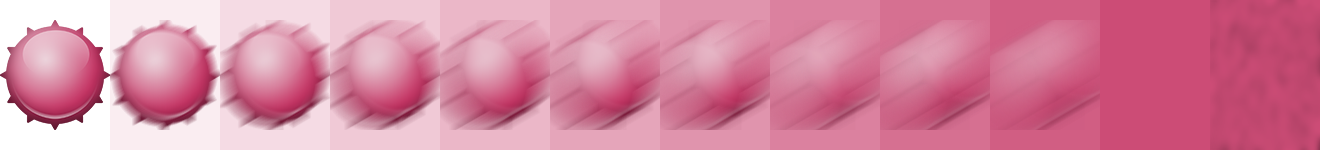
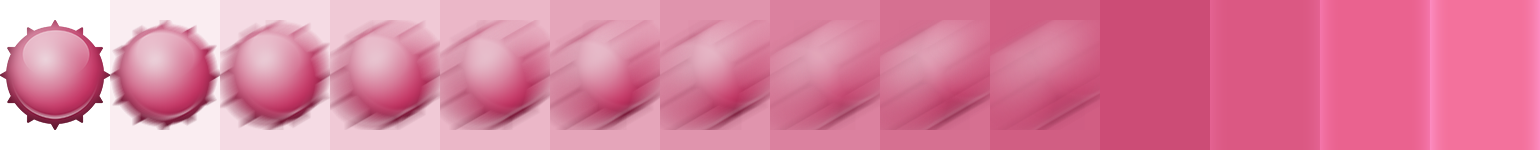
Mask for the injected cells

diff --git a/js/monsters.js b/js/monsters.js
@@ -36,6 +36,10 @@ var levelState = {
         path = game.add.group();
         cells = game.add.group();
         blendedCells = game.add.group();
+        injectorMask = game.add.graphics(100,30);
+        injectorMask.beginFill(0xffffff);
+        injectorMask.drawRect(100,0,100,580);
+        blendedCells.mask = injectorMask;
         cover = game.add.group();
         
         this.initPath();        
@@ -126,6 +130,7 @@ var levelState = {
         marker.scale.set(scale);
         marker.frame = 0;
         var cellInjector = game.add.image(198,-4,'cellInjector');
+
 	}
 }
 
@@ -192,7 +197,7 @@ function checkSolution(){
                         var blended = blendedCells.create(cell.x,cell.y,"blended-purple");                        
                         blended.scale.set(scale);
                         blended.anchor.set(0.5);
-                        blended.animations.add('blend',[0,1,2,3,4,5,6,7,8,9,10], 60, false);
+                        blended.animations.add('blend',[0,1,2,3,4,5,6,7,8,9,10,11,12,13], 60, false);
                         anim = blended.animations.play("blend");
                     }
                     cells.removeBetween(0,solution,true);
@@ -200,6 +205,7 @@ function checkSolution(){
                         var diff = marker.y - 40;
                         blendedCells.forEach(function(blended){
                             TweenMax.to(blended, 0.5,{
+                                delay: 0.1,
                                 y : blended.y-diff,
                                 onComplete: function(b){
                                     blendedCells.remove(b,true);
@@ -207,7 +213,8 @@ function checkSolution(){
                                 onCompleteParams: [blended]
                             });
                         },this,false);
-                        TweenMax.to(marker, 0.5,{                            
+                        TweenMax.to(marker, 0.5,{   
+                            delay: 0.1,
                             y : 40         
                         });
                     }, this);
